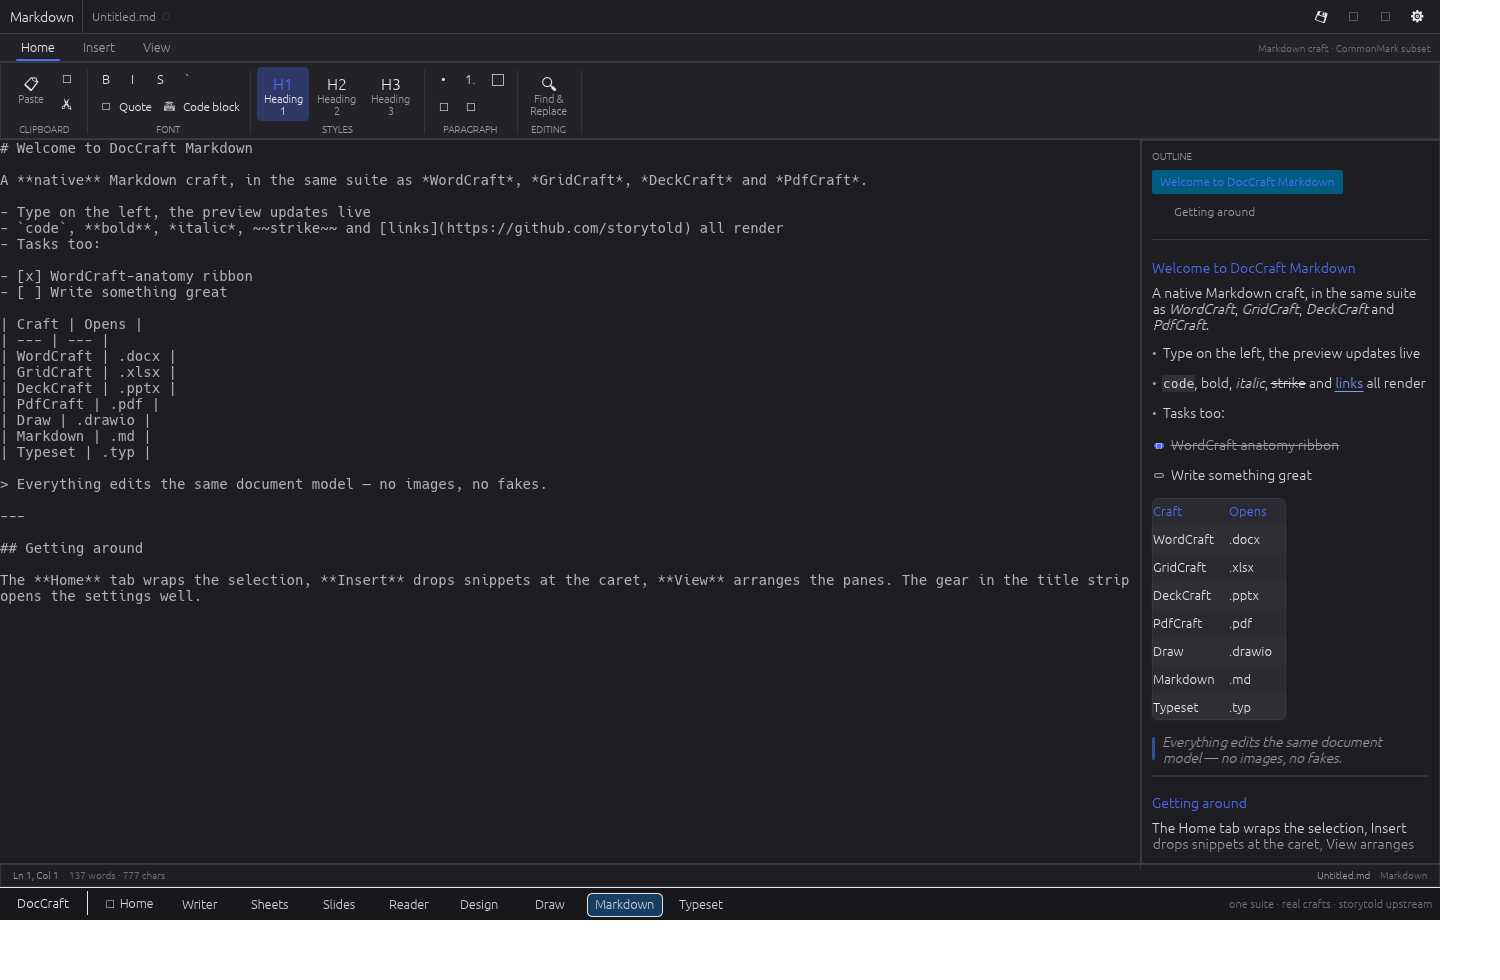
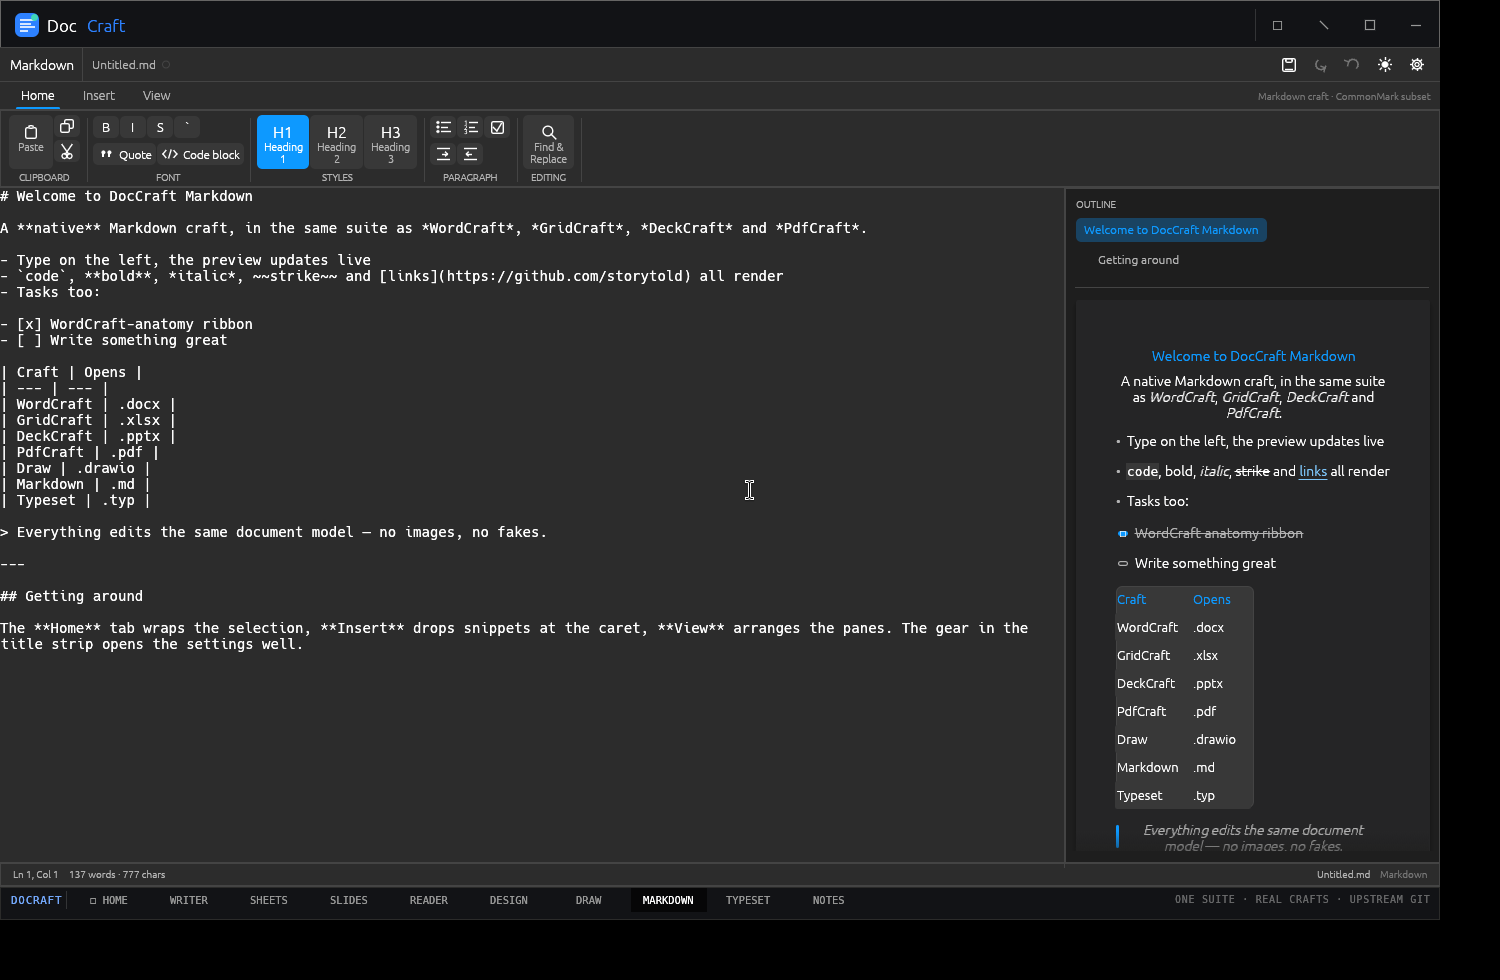
Shell: open .figma via Design, --craft/--light flags, refreshed docs + automated screenshot/arrow-drag harness
- open_path routes .figma to FigCraft (joins .fig/.figcraft/.svg); Windows
  associations refreshed: stale .vec dropped, .figma added (27 types).
- CLI: --craft=<name> starts directly in any craft, --light starts the native
  crafts in the light theme (also the deterministic headless-test hooks).
- About window: nine crafts, full file-type list.
- shots/shots34.sh + shots/step34.sh regenerate the whole gallery headlessly;
  shots/connect-test.sh asserts the drawio arrow drag-and-drop (fixed-point
  connect + endpoint re-link) end-to-end; 20/21 evidence shots added.
- README/CRAFT-STATUS/PROGRESS document 3.4: one design language, full
  GraphEditor, notes parity.

diff --git a/app/src/host.rs b/app/src/host.rs
@@ -178,7 +178,7 @@ impl Craft {
             Craft::Grid => "Spreadsheets · .xlsx .csv",
             Craft::Deck => "Presentations · .pptx",
             Craft::Pdf => "PDF · .pdf",
-            Craft::Fig => "Figma-style · .fig .svg",
+            Craft::Fig => "Figma-style · .fig .figma .svg",
             Craft::Draw => "Diagrams · .drawio",
             Craft::Markdown => "Writing · .md",
             Craft::Typeset => "Typesetting · .typ .tex",
@@ -204,6 +204,8 @@ pub struct HostApp {
     pub toast: Option<(String, f64)>,
     /// queued file open, flushed on the next frame with the real context
     pub pending: Option<(Craft, String, Vec<u8>, String)>,
+    /// craft to switch to on the first frame (--craft=<name>)
+    pending_craft: Option<Craft>,
 }
 
 impl HostApp {
@@ -222,14 +224,35 @@ impl HostApp {
             about_open: false,
             toast: None,
             pending: None,
+            pending_craft: None,
         };
-        // Open paths passed on the command line: `doccraft report.docx plan.drawio`
+        // Command line: file paths open in their craft; `--craft <name>`
+        // starts directly in a craft (Writer/Sheets/Slides/Reader/Design/Draw/
+        // Markdown/Typeset/Notes); `--light` starts the native crafts in the
+        // light theme. `doccraft plan.drawio --craft draw --light`.
+        let mut start_light = false;
         for arg in std::env::args().skip(1) {
             if arg == "--register-associations" {
                 crate::register_associations::run();
                 std::process::exit(0);
             }
+            if arg == "--light" {
+                start_light = true;
+                continue;
+            }
+            if let Some(name) = arg.strip_prefix("--craft=") {
+                if let Some(c) = Craft::ALL.iter().copied().find(|c| c.short().eq_ignore_ascii_case(name)) {
+                    me.pending_craft = Some(c);
+                }
+                continue;
+            }
             me.open_path(&arg);
+        }
+        if start_light {
+            me.draw.dark = false;
+            me.md.dark = false;
+            me.typeset.dark = false;
+            me.notes.dark = false;
         }
         let _ = cc;
         me
@@ -291,7 +314,7 @@ impl HostApp {
             "xlsx" | "xlsm" | "xls" | "ods" | "csv" | "tsv" => (Craft::Grid, String::new()),
             "pptx" | "potx" | "ppsx" => (Craft::Deck, String::new()),
             "pdf" => (Craft::Pdf, String::new()),
-            "fig" | "figcraft" | "svg" => (Craft::Fig, String::new()),
+            "fig" | "figcraft" | "figma" | "svg" => (Craft::Fig, String::new()),
             "drawio" | "xml" => (Craft::Draw, String::new()),
             "md" | "markdown" => (Craft::Markdown, String::new()),
             "typ" | "tex" | "ts" => (Craft::Typeset, String::new()),
@@ -435,6 +458,10 @@ impl eframe::App for HostApp {
 
     fn ui(&mut self, ui: &mut Ui, frame: &mut eframe::Frame) {
         let ctx = ui.ctx().clone();
+        // --craft=<name> from the command line: mount + switch on first frame.
+        if let Some(c) = self.pending_craft.take() {
+            self.switch(c, &ctx);
+        }
         // ArtCraft shell: custom header (logo + window buttons), hub strip at
         // the bottom; crafts keep their own full chrome untouched between them.
         header(ui, &mut self.about_open, self.active);
@@ -848,7 +875,7 @@ fn about_window(ctx: &Context, open: &mut bool) {
             ui.painter().rect_filled(Rect::from_min_size(hr.left_bottom(), vec2(hr.width(), 2.0)), 0.0, theme::ACCENT);
             paint_logo_mark(ui, hr.min + vec2(20.0, 20.0), 44.0);
             ui.painter().text(hr.min + vec2(78.0, 34.0), Align2::LEFT_CENTER, "About DocCraft", FontId::proportional(24.0), theme::INK_STRONG);
-            ui.painter().text(hr.min + vec2(78.0, 60.0), Align2::LEFT_CENTER, format!("DocCraft Suite v{} · one binary · ten crafts", env!("CARGO_PKG_VERSION")), FontId::monospace(11.5), theme::MUTED);
+            ui.painter().text(hr.min + vec2(78.0, 60.0), Align2::LEFT_CENTER, format!("DocCraft Suite v{} · one binary · nine crafts", env!("CARGO_PKG_VERSION")), FontId::monospace(11.5), theme::MUTED);
 
             egui::ScrollArea::vertical().id_salt("about_scroll").max_height(340.0).show(ui, |ui| {
                 ui.add_space(12.0);
@@ -878,7 +905,7 @@ fn about_window(ctx: &Context, open: &mut bool) {
                         ui.add_space(12.0);
                         ui.label(RichText::new("FILE TYPES THIS SYSTEM OPENS").font(FontId::monospace(10.0)).color(theme::FAINT));
                         ui.add_space(4.0);
-                        ui.label(RichText::new(".docx .doc .odt .rtf · .xlsx .xls .ods .csv · .pptx · .pdf · .drawio · .fig .svg · .md · .typ .tex · .note").font(FontId::monospace(11.0)).color(theme::INK));
+                        ui.label(RichText::new(".docx .doc .odt .rtf · .xlsx .xlsm .xls .ods .csv .tsv · .pptx .potx .ppsx · .pdf · .drawio .xml · .fig .figcraft .figma .svg · .md .markdown · .typ .tex .ts · .note .notes").font(FontId::monospace(11.0)).color(theme::INK));
                         ui.add_space(8.0);
                         if ui.add(egui::Button::new(RichText::new("Register file associations (Windows)").size(12.0))).clicked() {
                             crate::register_associations::run();

diff --git a/app/src/register_associations.rs b/app/src/register_associations.rs
@@ -11,9 +11,8 @@ pub const ASSOCIATIONS: &[(&str, &str)] = &[
     ("xlsx", "Sheets"), ("xlsm", "Sheets"), ("xls", "Sheets"), ("ods", "Sheets"), ("csv", "Sheets"), ("tsv", "Sheets"),
     ("pptx", "Slides"), ("potx", "Slides"), ("ppsx", "Slides"),
     ("pdf", "Reader"),
-    ("fig", "Design"), ("figcraft", "Design"), ("svg", "Design"),
+    ("fig", "Design"), ("figcraft", "Design"), ("figma", "Design"), ("svg", "Design"),
     ("drawio", "Draw"), ("xml", "Draw"),
-    ("vec", "Vector"),
     ("md", "Markdown"), ("markdown", "Markdown"),
     ("typ", "Typeset"), ("tex", "Typeset"), ("ts", "Typeset"),
     ("note", "Notes"), ("notes", "Notes"),

diff --git a/CRAFT-STATUS.md b/CRAFT-STATUS.md
@@ -11,9 +11,10 @@ Checked from each repo's own ROADMAP.md and Cargo.toml at integration time
 | PdfCraft (Reader) | github.com/storytold/pdfcraft | 0.9.0 | `a12fe8f` (v0.9.0-38) | alpha | ready **~50%** (weighted 49%) | Acrobat Pro DC target, OCR via rten, XFA, signing |
 | FigCraft (Design) | github.com/storytold/figcraft | 0.7.0 | `d8ff144` (v0.7.0-104) | alpha | menu breadth **100%** (212/212), feature breadth **~85%** (core editor ~94%), ready **~53%** | Figma Design (desktop 126.10.7) target; frames, vectors, text, auto layout, components, styles, variables, prototyping, Dev Mode |
 | craft-libs | github.com/storytold/craft-libs | 0.1.0 | `82a24b0` (main) | shared | — | `craft-ui`: buttons, docking, icons, layout, printing, tabs, theme — the UI foundation all crafts share |
-| Draw (drawio) | doccraft-suite/crates/drawio | 3.0.0 | this repo | native | new craft | mxGraph XML round-trip, shapes/edges/pages, diagrams.net-style UI |
-| Markdown | doccraft-suite/crates/md | 3.0.0 | this repo | native | new craft | CommonMark subset, split live preview |
-| Typeset | doccraft-suite/crates/typeset | 3.0.0 | this repo | native | new craft | markup → justified paginated A4 → PDF (Type1 base-14) |
+| Draw (drawio) | doccraft-suite/crates/drawio | 3.4.0 | this repo | native | new craft | full GraphEditor UI (Arrange/Help menus, scratchpad, drag-from-palette, Diagram tab, page ops), mxGraph XML round-trip, drawio-exact connections per DRAWIO-SPEC.md, SVG/PNG/PDF export |
+| Markdown | doccraft-suite/crates/md | 3.4.0 | this repo | native | new craft | CommonMark subset, split live preview on page cards, theme toggle |
+| Typeset | doccraft-suite/crates/typeset | 3.4.0 | this repo | native | new craft | markup → justified paginated A4 → PDF (Type1 base-14), paginated page cards |
+| Notes | doccraft-suite/crates/notes | 3.4.0 | this repo | native | new craft | multi-page notebook, styled live preview, settings, .note JSON save/load |
 
 Notes
 - Every readiness number above is copied from the upstream repo's own
@@ -29,3 +30,12 @@ Notes
 | craft-launcher (ArtCraft Launcher) | 0.5.1 | github.com/storytold/craft-launcher | UI/theme/motion reference — copied into the DocCraft shell |
 | drawio JS (jgraph/drawio v32.5.5 + mxGraph) | — | github.com/jgraph/drawio | connection/arrow/export spec extracted → DRAWIO-SPEC.md → implemented natively |
 | Windows target | — | cargo-xwin cross-build | DocCraft.exe x64 + installer + 27 file associations |
+
+## 3.4 additions
+| system | version | source | readiness |
+|---|---|---|---|
+| doccraft-theme (shared design tokens) | 3.4.0 | new | FigCraft UI3 light/dark tokens (ACCENT #0D99FF, radius 5/13, page shadows) — every native craft paints from it; ☀/☾ toggle per craft |
+| Draw → full GraphEditor | 3.4.0 | upgraded | Arrange + Help menus, File New/Save As/Close, multi-open shape libraries, Scratchpad (click/✕, auto-add on copy), drag shapes from palette onto canvas, page-tab context ops (rename/duplicate/delete/insert), Diagram tab with page setup, toolbar zoom menu |
+| Markdown / Typeset restyle | 3.4.0 | upgraded | UI3 tokens, page-card preview, DocCraft Blue default accent, Light/Dark in settings |
+| Notes full parity | 3.4.0 | upgraded | glyph ribbon (CLIPBOARD/FONT/PARAGRAPH/EDITING/VIEWS), styled markdown preview on page card, settings + accent picker, .note JSON save/load (Ctrl+S), markdown-marker toolbar actions |
+| Figma files | 3.4.0 | routing | `.figma` opens via Design (FigCraft) — launcher routing + Windows associations (27 types) |

diff --git a/README.md b/README.md
@@ -24,14 +24,25 @@ is themed after storytold's own **craft-launcher**.
 | 2 | **Sheets** (GridCraft) | `.xlsx .xls .csv …` | [storytold/gridcraft](https://github.com/storytold/gridcraft) | 0.8.0 | breadth ~75% — functions **98.1%** |
 | 3 | **Slides** (DeckCraft) | `.pptx …` | [storytold/deckcraft](https://github.com/storytold/deckcraft) | 0.8.0 | breadth 84% — ready ~55% |
 | 4 | **Reader** (PdfCraft) | `.pdf` | [storytold/pdfcraft](https://github.com/storytold/pdfcraft) | 0.9.0 | ready ~50% |
-| 5 | **Design** (FigCraft) | `.fig .figcraft .svg` | [storytold/figcraft](https://github.com/storytold/figcraft) | 0.7.0 | menus **100%** — ready ~53% |
-| 6 | **Draw** (drawio-style) | `.drawio .xml` | `crates/drawio` (this repo) | 3.3.0 | native — mxGraph XML round-trip, drawio-exact hover arrows / green connection dots / edge start-end editing, full export |
-| 7 | **Markdown** | `.md .markdown` | `crates/md` (this repo) | 3.3.0 | native — split live preview |
-| 8 | **Typeset** | `.typ .tex` | `crates/typeset` (this repo) | 3.3.0 | native — justified pagination → PDF |
-| 9 | **Notes** | `.note .notes` | `crates/notes` (this repo) | 3.3.0 | native — multi-page notebook |
+| 5 | **Design** (FigCraft) | `.fig .figcraft .figma .svg` | [storytold/figcraft](https://github.com/storytold/figcraft) | 0.7.0 | menus **100%** — ready ~53% |
+| 6 | **Draw** (drawio-style) | `.drawio .xml` | `crates/drawio` (this repo) | 3.4.0 | native — full GraphEditor UI, mxGraph XML round-trip, drawio-exact hover arrows / green connection dots / edge start-end editing, scratchpad + drag-from-palette, full export |
+| 7 | **Markdown** | `.md .markdown` | `crates/md` (this repo) | 3.4.0 | native — split live preview on a page card, shared UI3 design tokens |
+| 8 | **Typeset** | `.typ .tex` | `crates/typeset` (this repo) | 3.4.0 | native — justified pagination → PDF, paginated page cards, shared UI3 design tokens |
+| 9 | **Notes** | `.note .notes` | `crates/notes` (this repo) | 3.4.0 | native — multi-page notebook, styled live preview, settings, .note JSON save/load |
 
 Readiness numbers come from each upstream repo's own `ROADMAP.md` — see
 [`CRAFT-STATUS.md`](CRAFT-STATUS.md) for the full honest table.
+
+### One design language
+
+Since 3.4 every native craft paints with the same design tokens as the
+upstream crafts: the FigCraft UI3 light/dark system lives in
+[`crates/theme`](crates/theme) (shared crate `doccraft-theme`) — accent
+`#0D99FF`, radius-5 widgets, radius-13 windows, soft page shadows — and each
+craft has a ☀/☾ theme toggle. Draw is a full GraphEditor (menus, toolbar,
+searchable shape libraries + Scratchpad with drag-to-canvas, Format panel with
+Diagram/Style/Text/Arrange tabs, page tabs, status bar), and Markdown /
+Typeset / Notes show their output as real page cards on a canvas.
 
 ## Screenshots
 

diff --git a/PROGRESS.md b/PROGRESS.md
@@ -191,10 +191,29 @@ a native Windows build with NASM is the upstream-faithful alternative.
 | Sheets/GridCraft | v0.8.0 | ~75% | functions 98.1% |
 | Slides/DeckCraft | v0.8.0 | ~55% | real app embedded |
 | Reader/PdfCraft | v0.9.0 | ~50% | real app embedded |
-| Design/FigCraft | v0.7.0 | ~53% | 10th system fully embedded |
-| Draw/drawio-native | 3.2.0 | — | connections/arrows/export per JS spec |
-| Vector (Illustrator) | 3.2.0 | — | ported from DocCraft 2.5 to egui 0.36 |
-| Markdown | 3.1.0 | — | wordcraft-anatomy chrome + settings |
-| Typeset | 3.1.0 | — | pagination + real PDF |
-| Notes | 3.2.0 | — | new notebook craft |
+| Design/FigCraft | v0.7.0 | ~53% | 9th system fully embedded |
+| Draw/drawio-native | 3.4.0 | — | full GraphEditor + drawio-exact connections (Vector removed in 3.3) |
+| Markdown | 3.4.0 | — | wordcraft-anatomy chrome on UI3 tokens + page-card preview |
+| Typeset | 3.4.0 | — | pagination + real PDF on UI3 tokens |
+| Notes | 3.4.0 | — | full ribbon/preview/settings parity + .note JSON persistence |
 | craft-launcher chrome | 0.5.1 (ref) | — | tokens/motion/header copied |
+
+## 3.4.0 — one design language, full GraphEditor
+
+- `crates/theme` (doccraft-theme): FigCraft UI3 light/dark Tokens ported 1:1
+  from `upstream/figcraft/crates/ui-egui/src/theme.rs` — accent #0D99FF,
+  radius-5 widgets, radius-13 windows, soft page shadows, 11px UI text. Every
+  native craft now paints exclusively from these tokens (dark default,
+  ☀/☾ toggle, Light/Dark radio in settings).
+- Draw = full GraphEditor: Arrange + Help menus, File New/Save As/Close,
+  multi-open shape libraries, Scratchpad (auto-add on copy, right-click add,
+  hover ✕ remove), drag shapes from the palette onto the canvas with a ghost
+  preview, page-tab context ops (rename/duplicate/delete/insert), Diagram tab
+  (paper/background/grid) when nothing is selected, toolbar zoom menu.
+- Markdown/Typeset: UI3 restyle; preview/pagination render as page cards on a
+  canvas (white/dark paper + card shadow); DocCraft Blue default accent.
+- Notes rebuilt to full parity: glyph command strip, styled markdown preview
+  on a page card, settings window with accent picker, .note JSON save/load
+  (Ctrl+S) + text import.
+- `.figma` files open via Design (FigCraft); Windows associations refreshed
+  (27 types, stale .vec removed); About window file-type list updated.
